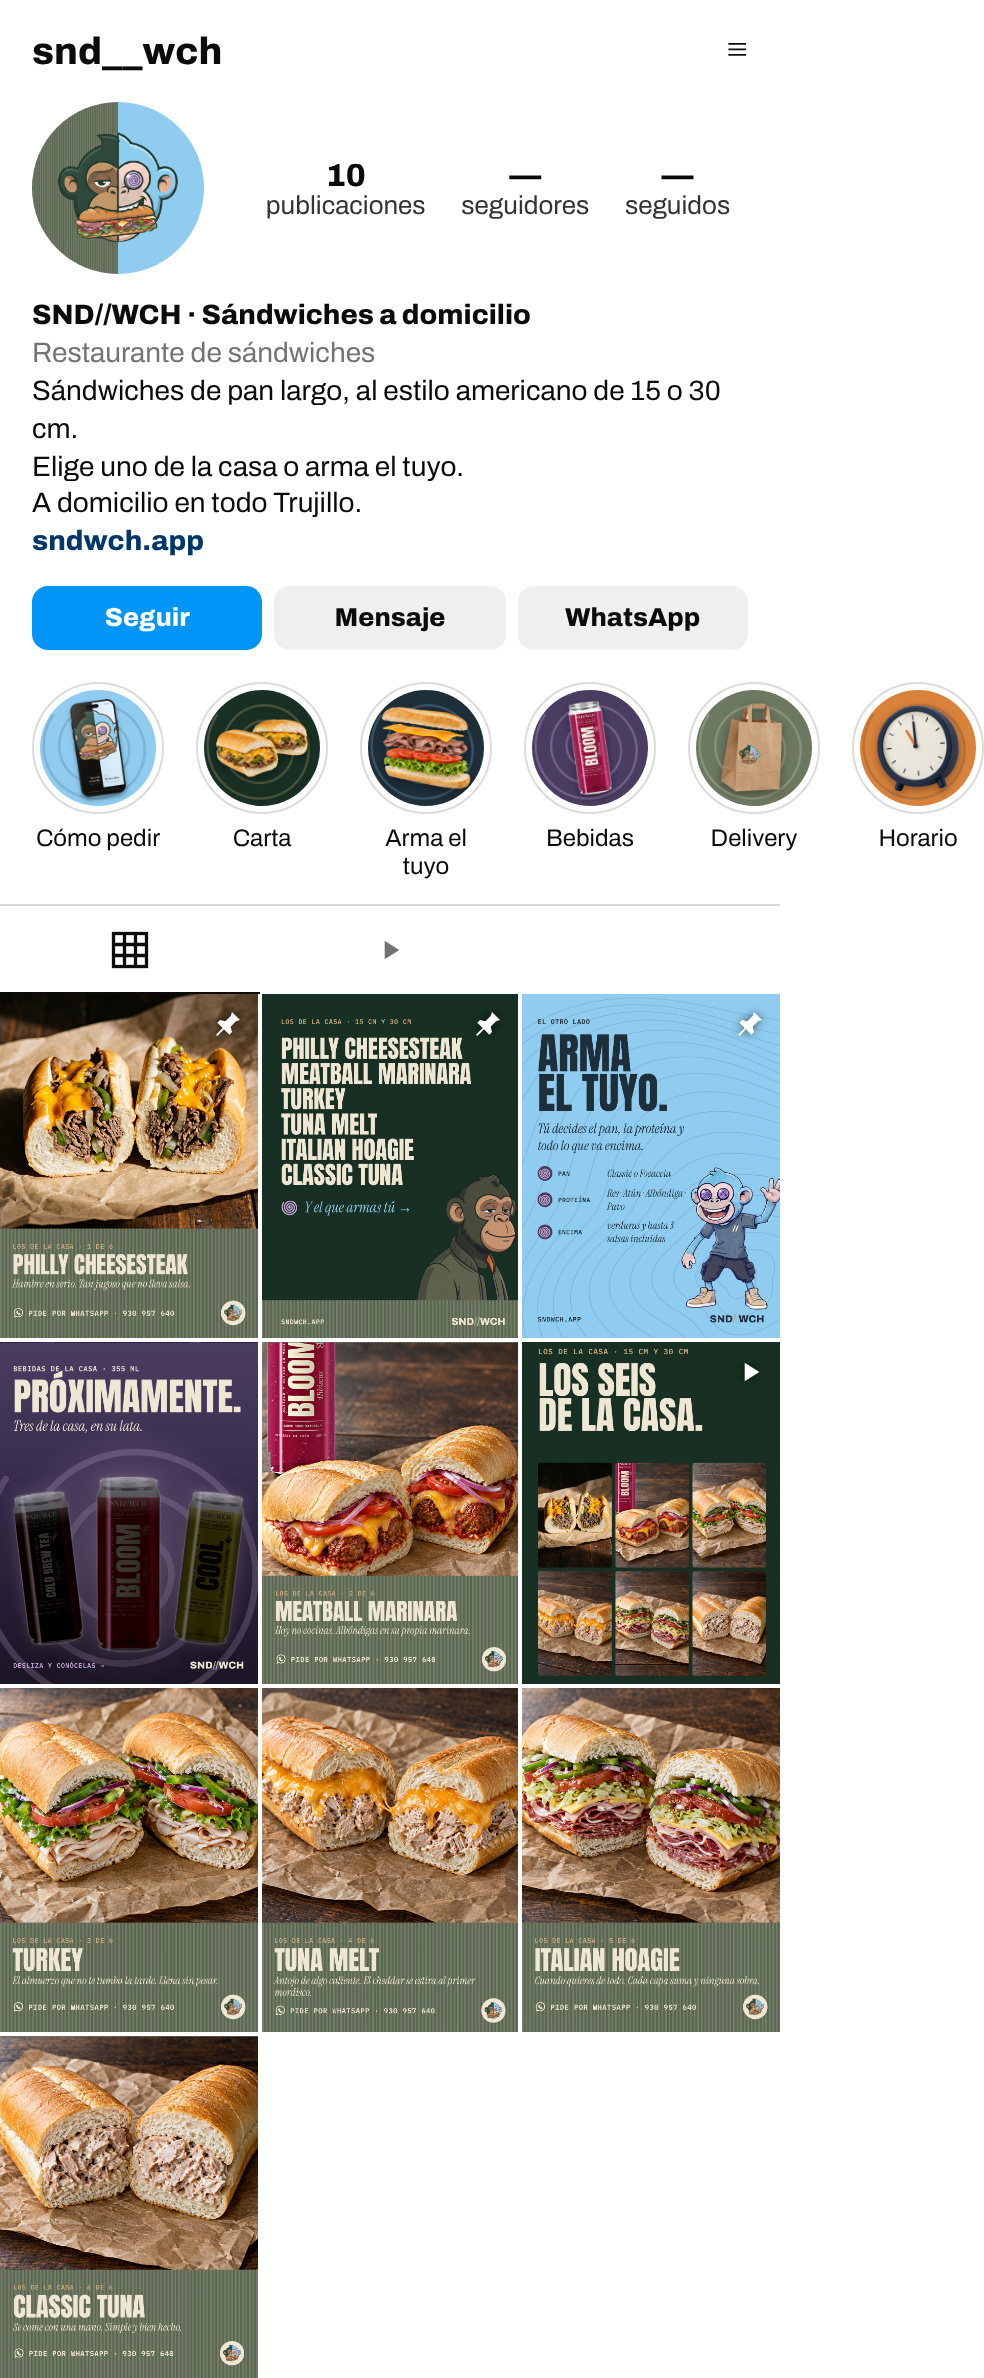
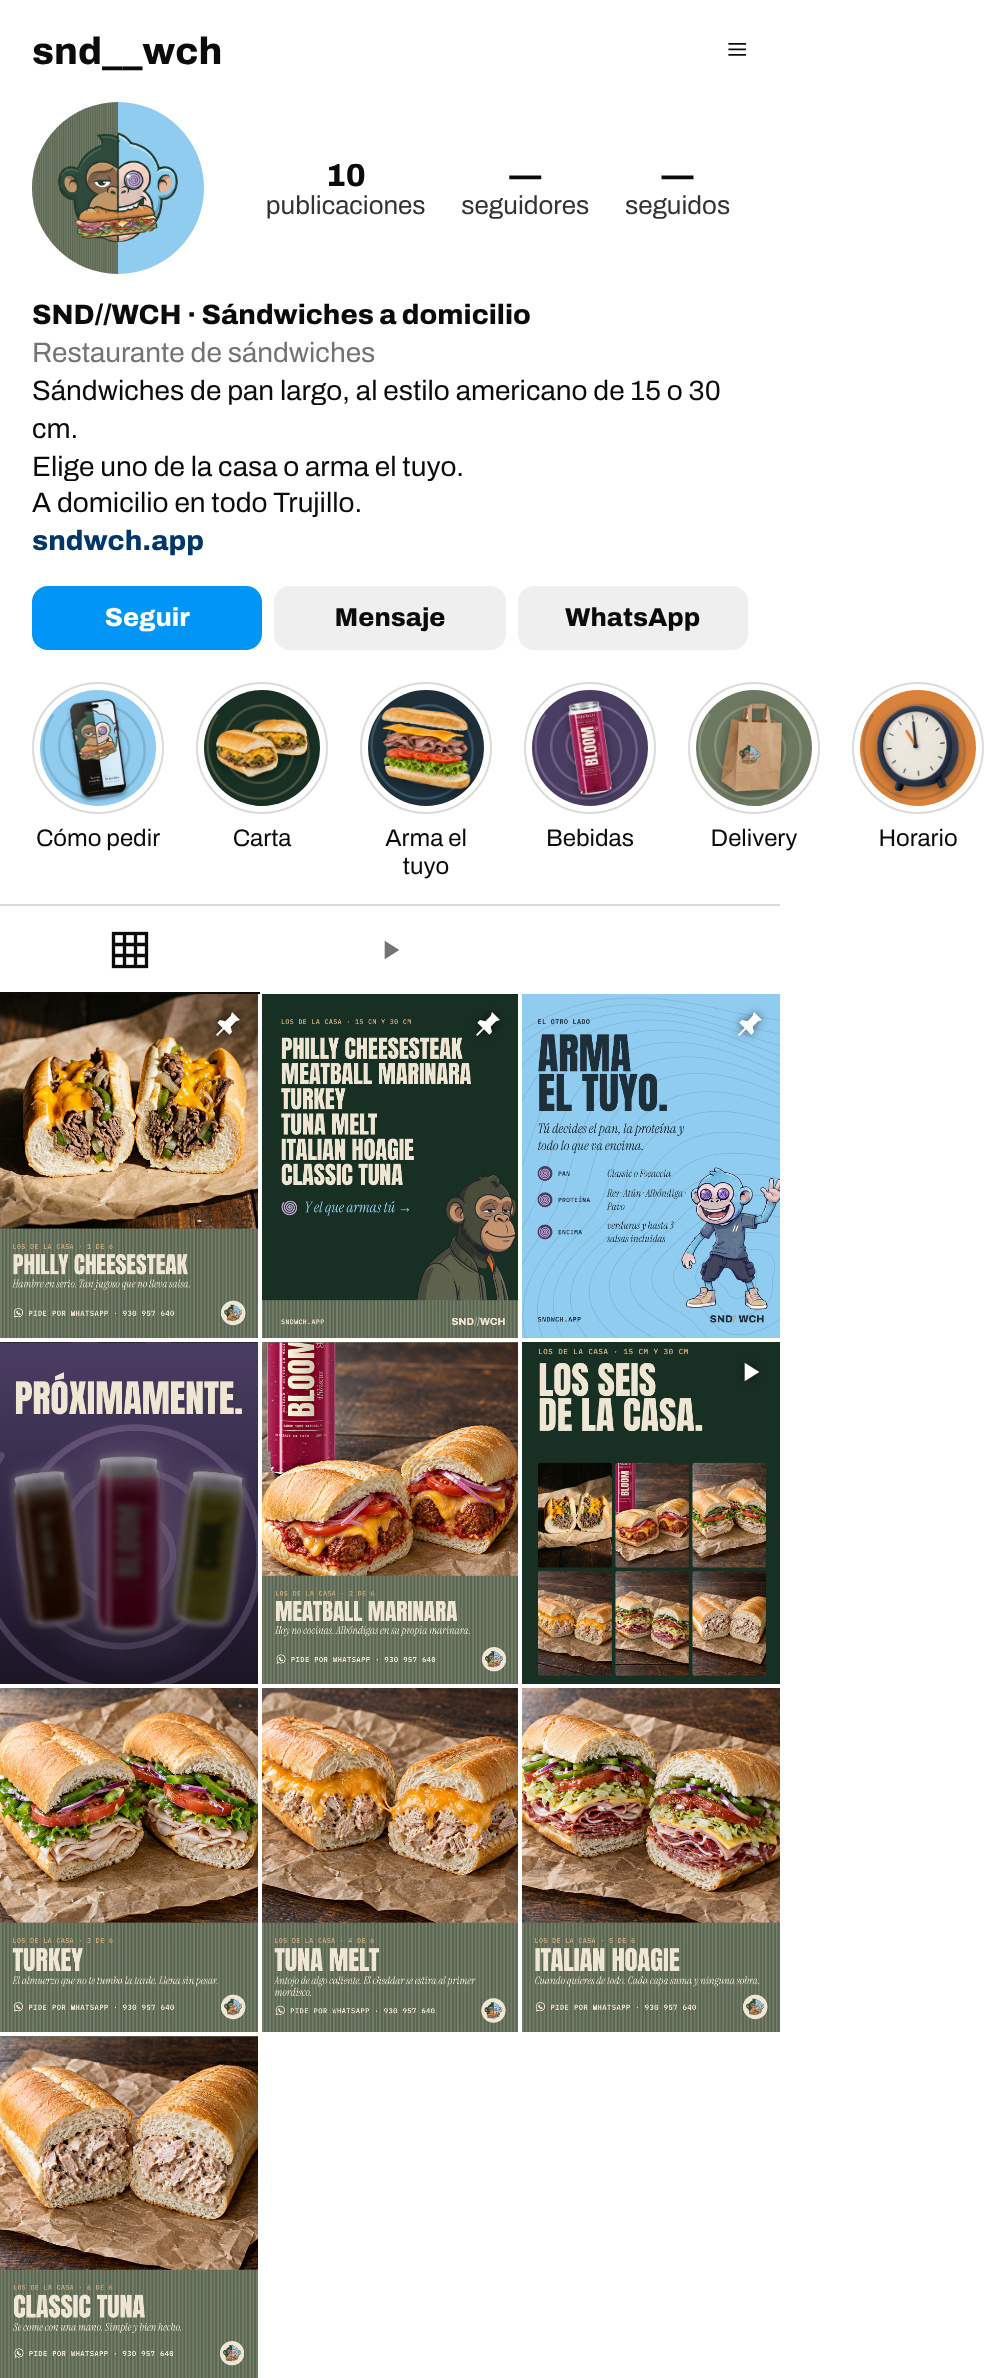
Bebidas: «Próximamente» solo con la palabra, y el post en 4 (aviso + las tres bebidas)
Claude-Session: https://claude.ai/code/session_01NCVgixMFGDjTdiWThGTz7g

Changed region(s): [[0.0, 0.5601, 0.2744, 0.7157]]

diff --git a/docs/sesiones/2026-11-01.md b/docs/sesiones/2026-11-01.md
@@ -68,3 +68,8 @@
   - `carrusel-bebidas-proximamente.jpg` (4:5), primera lámina del carrusel;
   - `historias/historia-bebidas-proximamente.jpg` (9:16), primera historia del destacado.
 - Se borran cuando la lata esté a la venta. El texto del post cambia entonces a la versión del LEEME.
+- Después, el dueño pidió: «Haz una por favor que solo diga próximamente en una sola imagen, luego las otras tres que ya
+  tenías pero quitándole la palabra próximamente».
+  - La pieza quedó solo con «Próximamente.» y las latas en penumbra, desenfocadas para que no se lea nada más.
+  - El post queda en 4: «Próximamente» y las tres bebidas. «Las de la casa» ya no entra.
+  - El destacado queda en 4: «Próximamente» y las tres historias.
